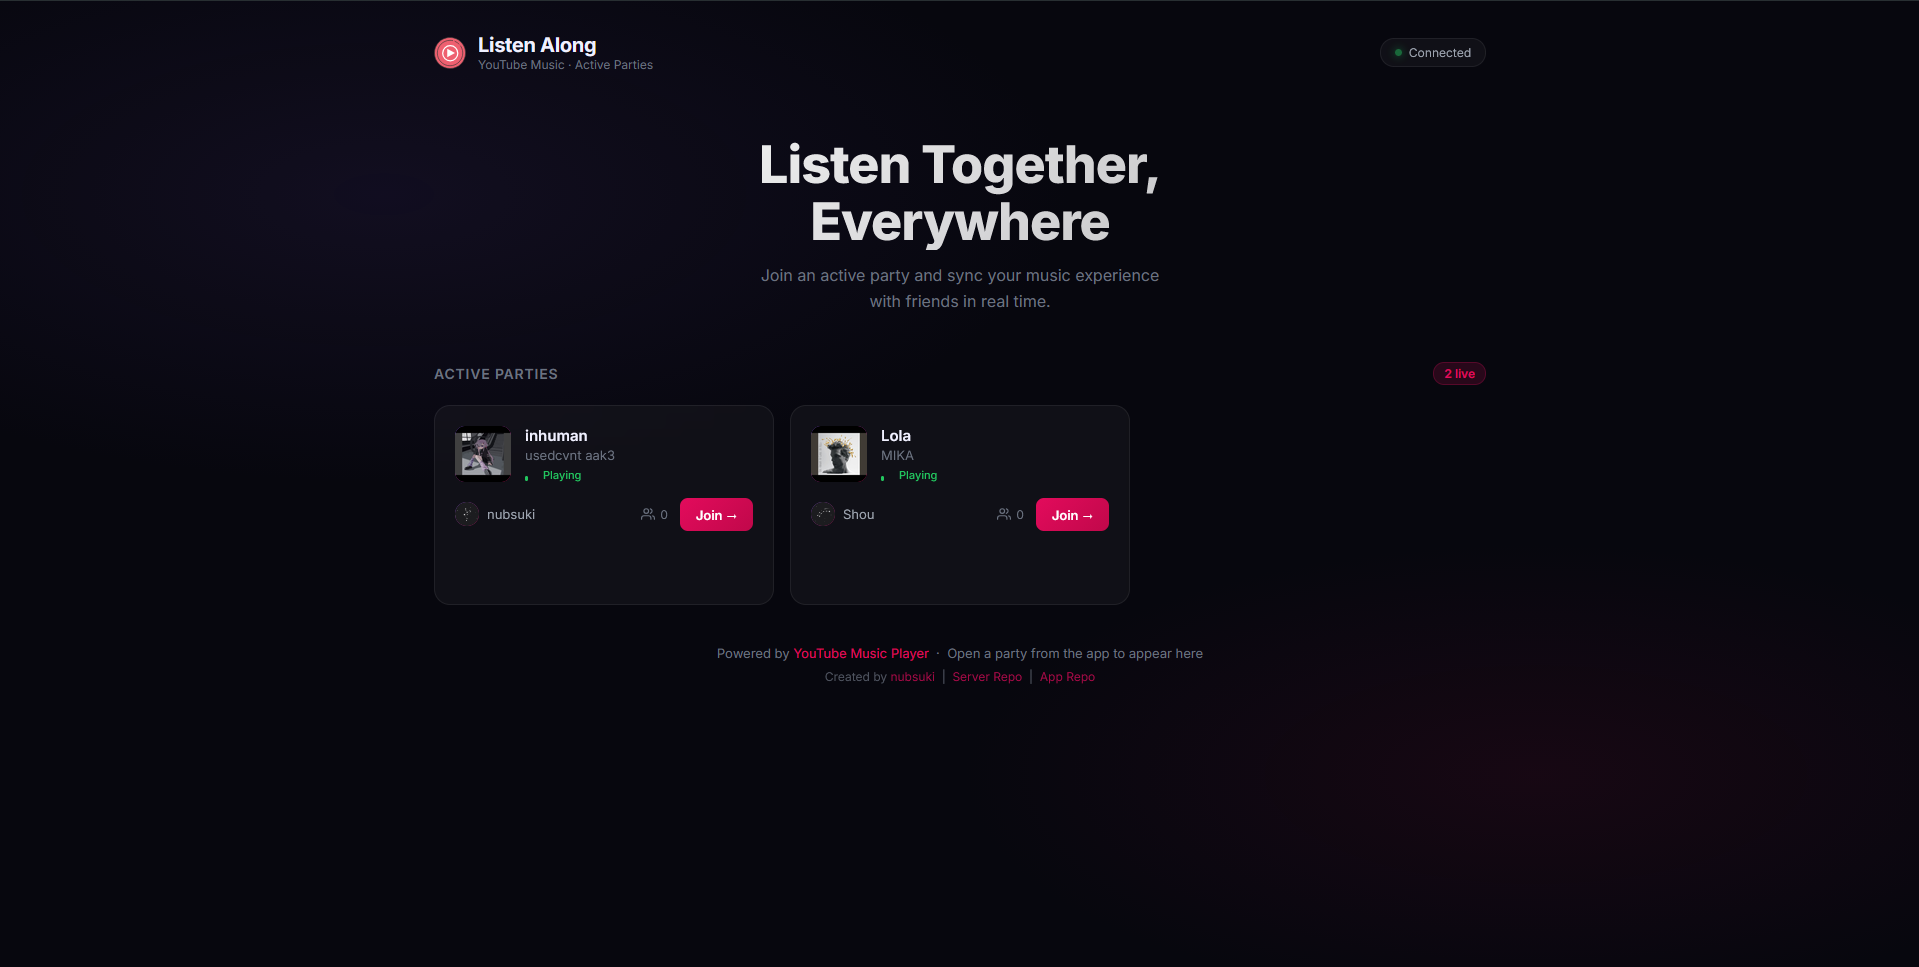
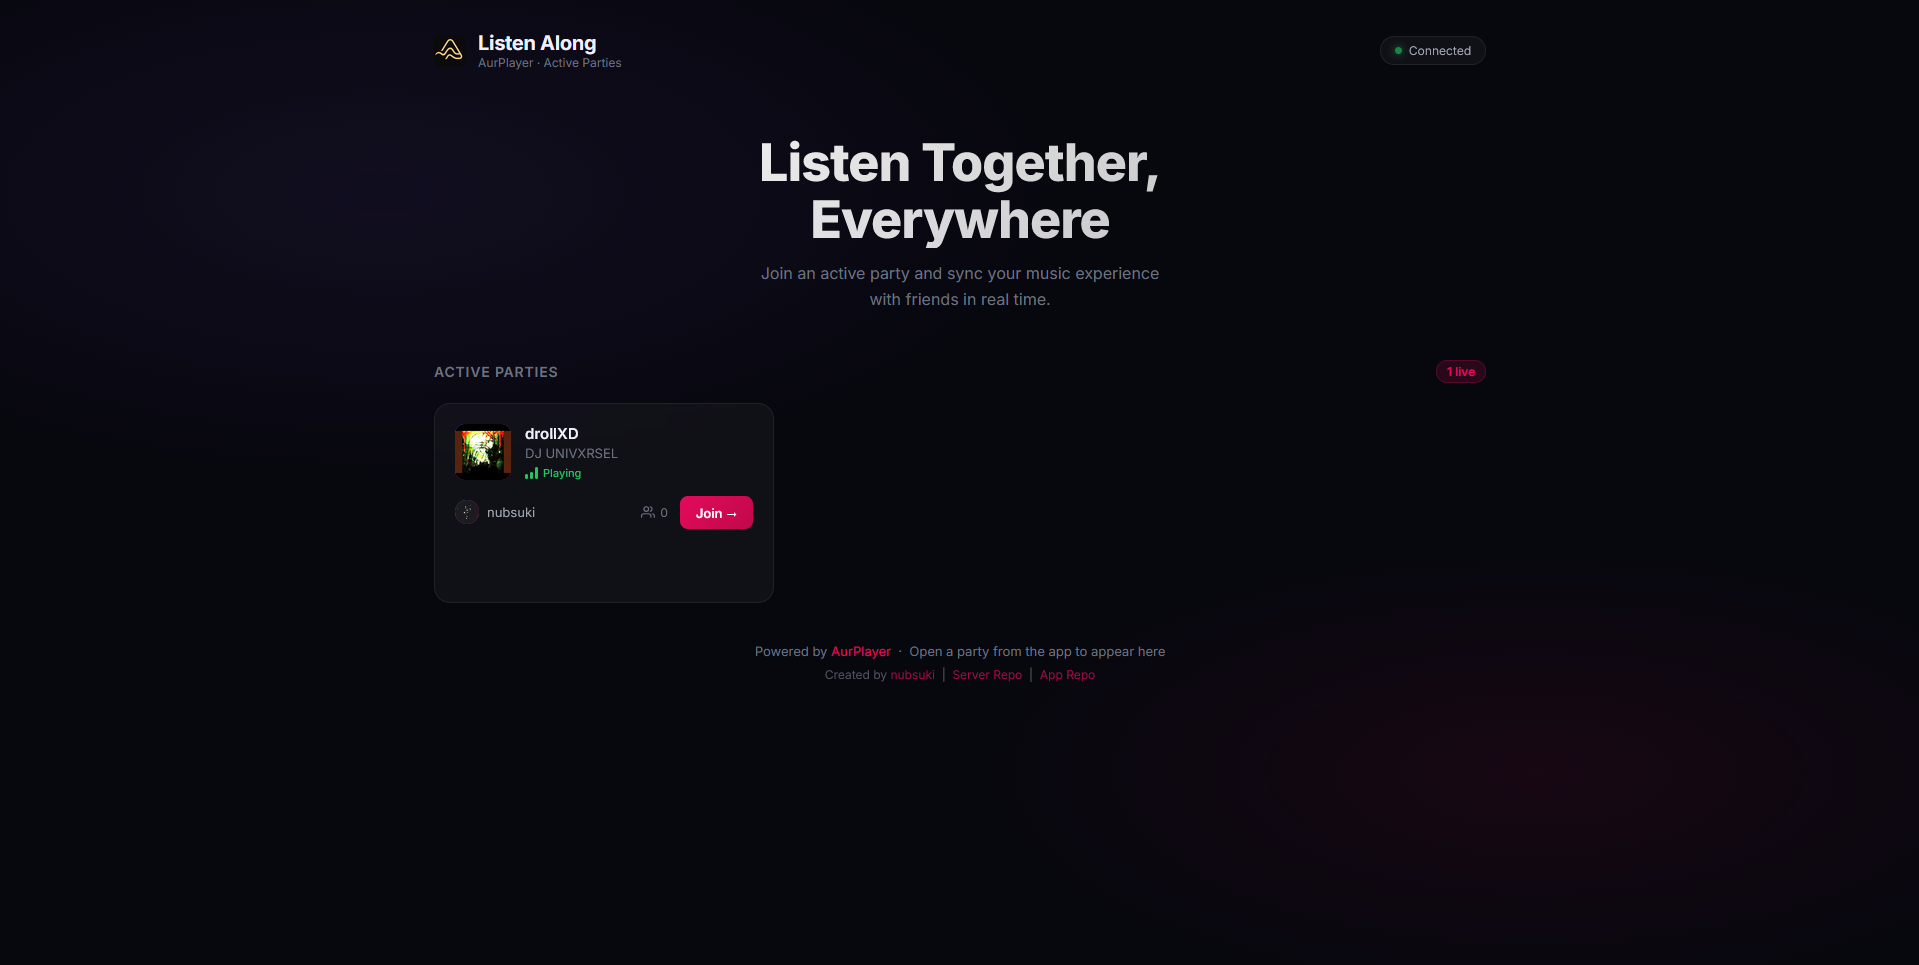
add Listen Along feature and update branding references

diff --git a/listen-along/listenAlong.js b/listen-along/listenAlong.js
@@ -1,8 +1,8 @@
 const { io } = require("socket.io-client");
 const { Notification } = require("electron");
 
-const DEFAULT_SERVER_URL = "https://ytms.nubsuki.xyz";
-const CREATE_PARTY_ENDPOINT = "https://ytms.nubsuki.xyz/api/party/create";
+const DEFAULT_SERVER_URL = "https://aurplayer.nubsuki.xyz";
+const CREATE_PARTY_ENDPOINT = "https://aurplayer.nubsuki.xyz/api/party/create";
 
 function normalizeName(raw) {
   if (typeof raw !== "string") return "";

diff --git a/Readme.md b/Readme.md
@@ -32,7 +32,7 @@ A fast, clean, and feature-packed desktop client for **YouTube Music**.
   - *Violet* — Violet accent
   - *Nord* — Arctic cool blue accent
   - *Amber* — Warm golden amber accent
-- **Listen Along (Beta)**: Synchronized real-time group listening with friends anywhere in the world via party codes, web view, and optional auto-hosting on startup. [Learn more](https://github.com/nubsuki/yt-music-sync-server) or check active parties at [ytms.nubsuki.xyz](https://ytms.nubsuki.xyz).
+- **Listen Along (Beta)**: Synchronized real-time group listening with friends anywhere in the world via party codes, web view, and optional auto-hosting on startup. [Learn more](https://github.com/nubsuki/Aurplayer-sync-server) or check active parties at [aurplayer.nubsuki.xyz](https://aurplayer.nubsuki.xyz).
 - **Discord Rich Presence**: Displays your current song, artist, album art, and Listen Along sync status in your Discord profile.
 - **Filter Connection**: Network request filtering using customizable rule lists.
 - **Custom Filter Lists**: Add, remove, and toggle custom request filter lists with persistent configuration and 24-hour auto-updates.
